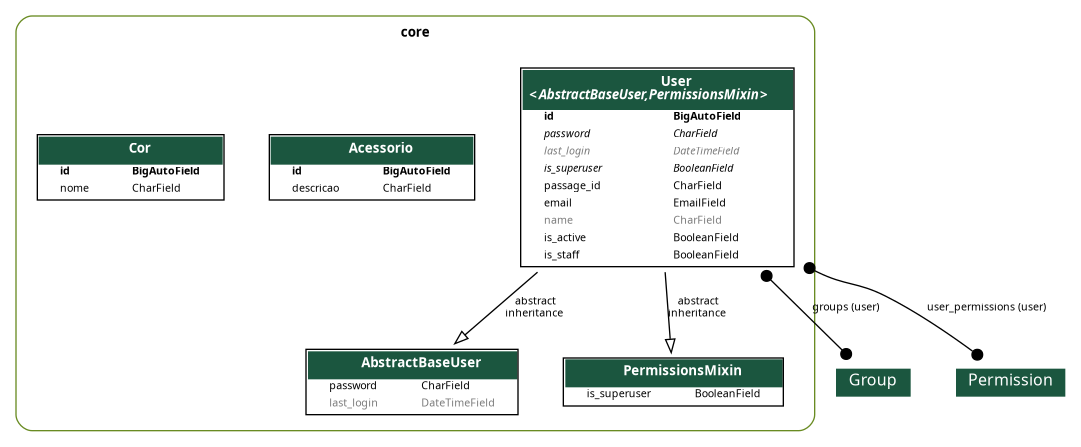
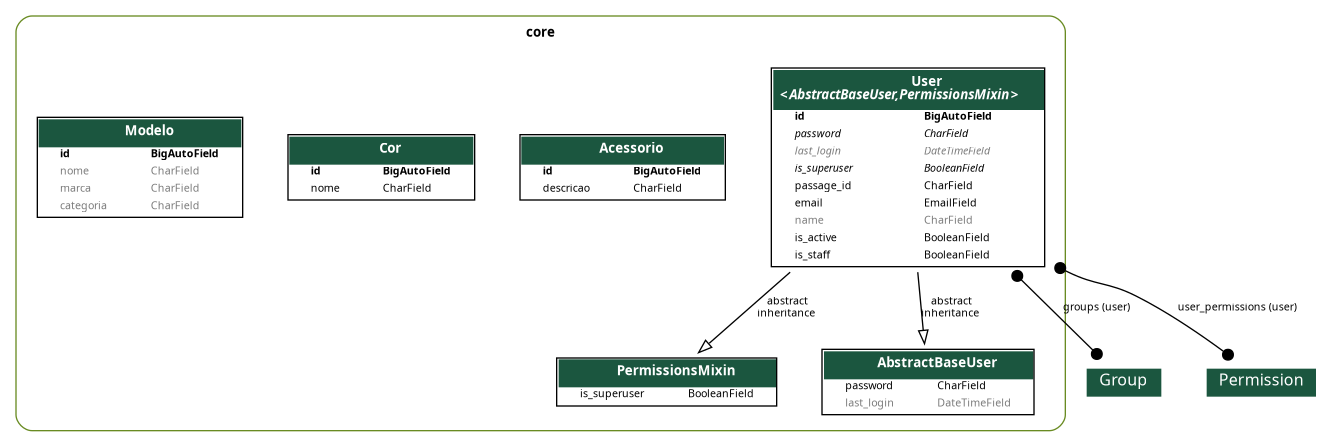
FEAT: Create API for Modelo

diff --git a/core/migrations/0007_modelo.py b/core/migrations/0007_modelo.py
@@ -1,0 +1,22 @@
+# Generated by Django 5.1.7 on 2025-04-22 12:34
+
+from django.db import migrations, models
+
+
+class Migration(migrations.Migration):
+
+    dependencies = [
+        ('core', '0006_cor'),
+    ]
+
+    operations = [
+        migrations.CreateModel(
+            name='Modelo',
+            fields=[
+                ('id', models.BigAutoField(auto_created=True, primary_key=True, serialize=False, verbose_name='ID')),
+                ('nome', models.CharField(blank=True, max_length=80, null=True)),
+                ('marca', models.CharField(blank=True, max_length=80, null=True)),
+                ('categoria', models.CharField(blank=True, max_length=80, null=True)),
+            ],
+        ),
+    ]

diff --git a/app/urls.py b/app/urls.py
@@ -8,13 +8,14 @@ from drf_spectacular.views import (
 )
 from rest_framework.routers import DefaultRouter
 
-from core.views import UserViewSet, AcessorioViewSet, CorViewSet
+from core.views import UserViewSet, AcessorioViewSet, CorViewSet, ModeloViewSet
 
 router = DefaultRouter()
 
 router.register(r'usuarios', UserViewSet, basename='usuarios')
 router.register(r'acessorios', AcessorioViewSet)
 router.register(r'cores', CorViewSet)
+router.register(r'modelos', ModeloViewSet)
 
 urlpatterns = [
     path('admin/', admin.site.urls),

diff --git a/core/admin.py b/core/admin.py
@@ -7,7 +7,7 @@ from django.contrib.auth.admin import UserAdmin as BaseUserAdmin
 from django.utils.translation import gettext_lazy as _
 
 from core import models
-from core.models import Acessorio, Cor
+from core.models import Acessorio, Cor, Modelo
 
 
 class UserAdmin(BaseUserAdmin):
@@ -55,3 +55,4 @@ class UserAdmin(BaseUserAdmin):
 admin.site.register(models.User, UserAdmin)
 admin.site.register(Acessorio)
 admin.site.register(Cor)
+admin.site.register(Modelo)

diff --git a/core/models/modelo.py b/core/models/modelo.py
@@ -1,0 +1,9 @@
+from django.db import models
+
+class Modelo(models.Model):
+    nome = models.CharField(max_length=80, blank=True, null=True)
+    marca = models.CharField(max_length=80, blank=True, null=True)
+    categoria = models.CharField(max_length=80, blank=True, null=True)
+
+    def __str__(self):
+        return f"{self.id} - {self.nome.upper()} ({self.marca.upper()})"

diff --git a/core/views/modelo.py b/core/views/modelo.py
@@ -1,0 +1,8 @@
+from rest_framework.viewsets import ModelViewSet
+
+from core.serializers import ModeloSerializer
+from core.models import Modelo
+
+class ModeloViewSet(ModelViewSet):
+    queryset = Modelo.objects.all()
+    serializer_class = ModeloSerializer

diff --git a/core/serializers/modelo.py b/core/serializers/modelo.py
@@ -1,0 +1,8 @@
+from rest_framework.serializers import ModelSerializer
+
+from core.models import Modelo
+
+class ModeloSerializer(ModelSerializer):
+    class Meta:
+        model = Modelo
+        fields = '__all__'

diff --git a/core/serializers/__init__.py b/core/serializers/__init__.py
@@ -1,3 +1,4 @@
 from .user import UserSerializer
 from .acessorio import AcessorioSerializer
 from .cor import CorSerializer
+from .modelo import ModeloSerializer

diff --git a/core/views/__init__.py b/core/views/__init__.py
@@ -1,3 +1,4 @@
 from .user import UserViewSet
 from .acessorio import AcessorioViewSet
 from .cor import CorViewSet
+from .modelo import ModeloViewSet

diff --git a/core/models/__init__.py b/core/models/__init__.py
@@ -1,3 +1,4 @@
 from .user import User
 from .acessorio import Acessorio
 from .cor import Cor
+from .modelo import Modelo
